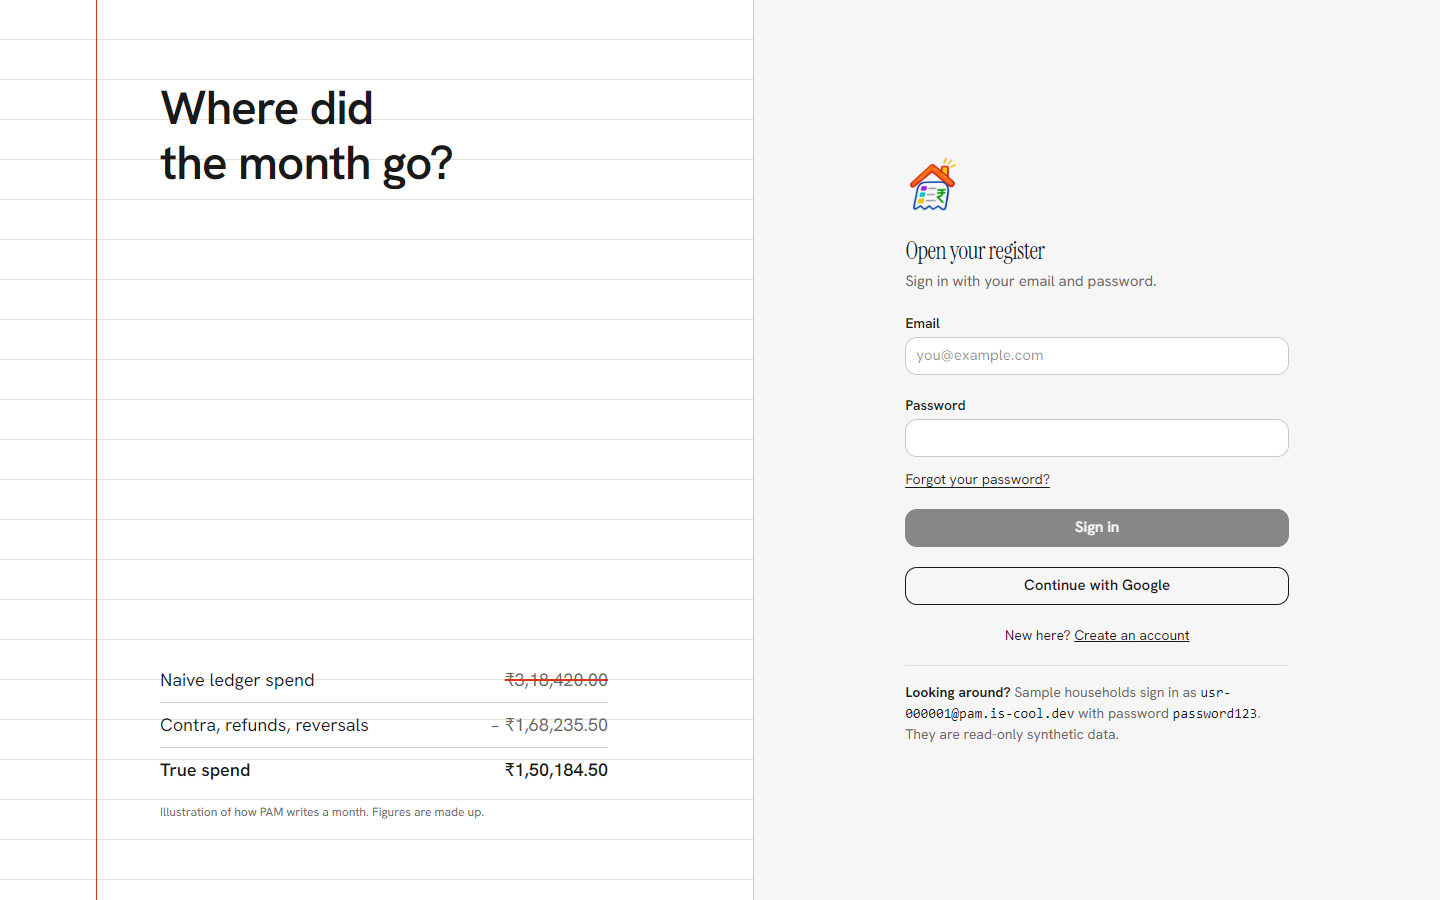
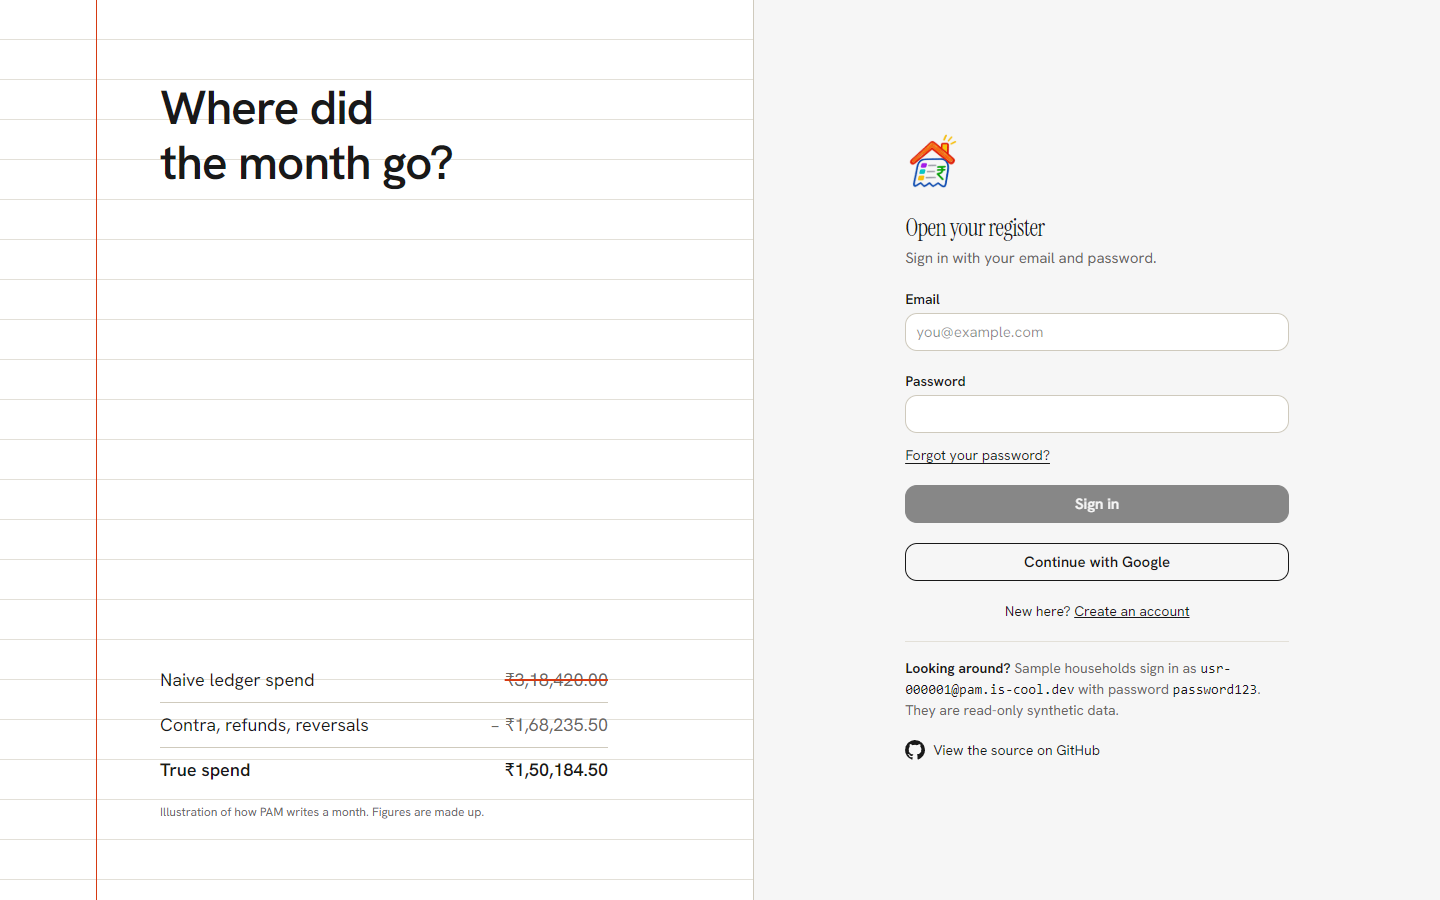
Fix income card text in dark theme (Android); GitHub link on web login

Changed region(s): [[0.625, 0.4978, 0.9062, 0.84], [0.625, 0.1556, 0.8125, 0.4667]]

diff --git a/mobile/lib/screens/folio.dart b/mobile/lib/screens/folio.dart
@@ -79,7 +79,7 @@ class _FolioState extends State<Folio> {
                 const SizedBox(height: 12),
                 Row(crossAxisAlignment: CrossAxisAlignment.start, children: [
                   Expanded(child: SlideUp(index: 1, child: ShapeCard(shape: CardShape.tab, color: k.sand, radius: 22, padding: const EdgeInsets.fromLTRB(16, 14, 16, 16),
-                      child: _Fig('INCOME', CountUp(income, (v) => Text(inr(v), style: const TextStyle(fontFamily: serif, fontSize: 24, color: Color(0xFF191919)))))))),
+                      child: _Fig('INCOME', CountUp(income, (v) => Text(inr(v), style: TextStyle(fontFamily: serif, fontSize: 24, color: k.ink))))))),
                   const SizedBox(width: 12),
                   Expanded(child: SlideUp(index: 2, child: ShapeCard(shape: CardShape.tab, color: const Color(0xFF191919), radius: 22, padding: const EdgeInsets.fromLTRB(16, 14, 16, 16),
                       child: _Fig('KEPT', rate == null ? const Text('—', style: TextStyle(fontFamily: serif, fontSize: 24, color: Color(0xFFFCF9EB))) : CountUp((rate * 100).round(), (v) => Text('$v%', style: TextStyle(fontFamily: serif, fontSize: 24, color: rate < 0 ? const Color(0xFFFF7A52) : const Color(0xFFFCF9EB)))), light: true)))),
@@ -128,7 +128,7 @@ class _Fig extends StatelessWidget {
   const _Fig(this.label, this.child, {this.light = false});
   @override
   Widget build(BuildContext context) => Column(crossAxisAlignment: CrossAxisAlignment.start, children: [
-        Text(label, style: TextStyle(color: light ? const Color(0xFFBDB8A8) : const Color(0xFF5E5A50), fontWeight: FontWeight.w800, fontSize: 11, letterSpacing: 1)),
+        Text(label, style: TextStyle(color: light ? const Color(0xFFBDB8A8) : Palette.of(context).muted, fontWeight: FontWeight.w800, fontSize: 11, letterSpacing: 1)),
         const SizedBox(height: 2),
         child,
       ]);

diff --git a/web/src/pages/Login.tsx b/web/src/pages/Login.tsx
@@ -65,6 +65,10 @@ export default function Login() {
           <div className="text-sm text-muted border-t border-rule pt-4 space-y-1">
             <p><b className="text-ink">Looking around?</b> Sample households sign in as <span className="font-mono text-ink">usr-000001@pam.is-cool.dev</span> with password <span className="font-mono text-ink">password123</span>. They are read-only synthetic data.</p>
           </div>
+          <a href="https://github.com/vbs-0/pam" target="_blank" rel="noopener noreferrer" className="inline-flex items-center gap-2 text-sm text-muted hover:text-ink transition-colors" aria-label="PAM source code on GitHub">
+            <svg viewBox="0 0 16 16" width="20" height="20" fill="currentColor" aria-hidden="true"><path d="M8 0C3.58 0 0 3.58 0 8c0 3.54 2.29 6.53 5.47 7.59.4.07.55-.17.55-.38 0-.19-.01-.82-.01-1.49-2.01.37-2.53-.49-2.69-.94-.09-.23-.48-.94-.82-1.13-.28-.15-.68-.52-.01-.53.63-.01 1.08.58 1.23.82.72 1.21 1.87.87 2.33.66.07-.52.28-.87.51-1.07-1.78-.2-3.64-.89-3.64-3.95 0-.87.31-1.59.82-2.15-.08-.2-.36-1.02.08-2.12 0 0 .67-.21 2.2.82.64-.18 1.32-.27 2-.27s1.36.09 2 .27c1.53-1.04 2.2-.82 2.2-.82.44 1.1.16 1.92.08 2.12.51.56.82 1.27.82 2.15 0 3.07-1.87 3.75-3.65 3.95.29.25.54.73.54 1.48 0 1.07-.01 1.93-.01 2.2 0 .21.15.46.55.38A8.01 8.01 0 0 0 16 8c0-4.42-3.58-8-8-8z"/></svg>
+            View the source on GitHub
+          </a>
         </form>
       </section>
     </div>
